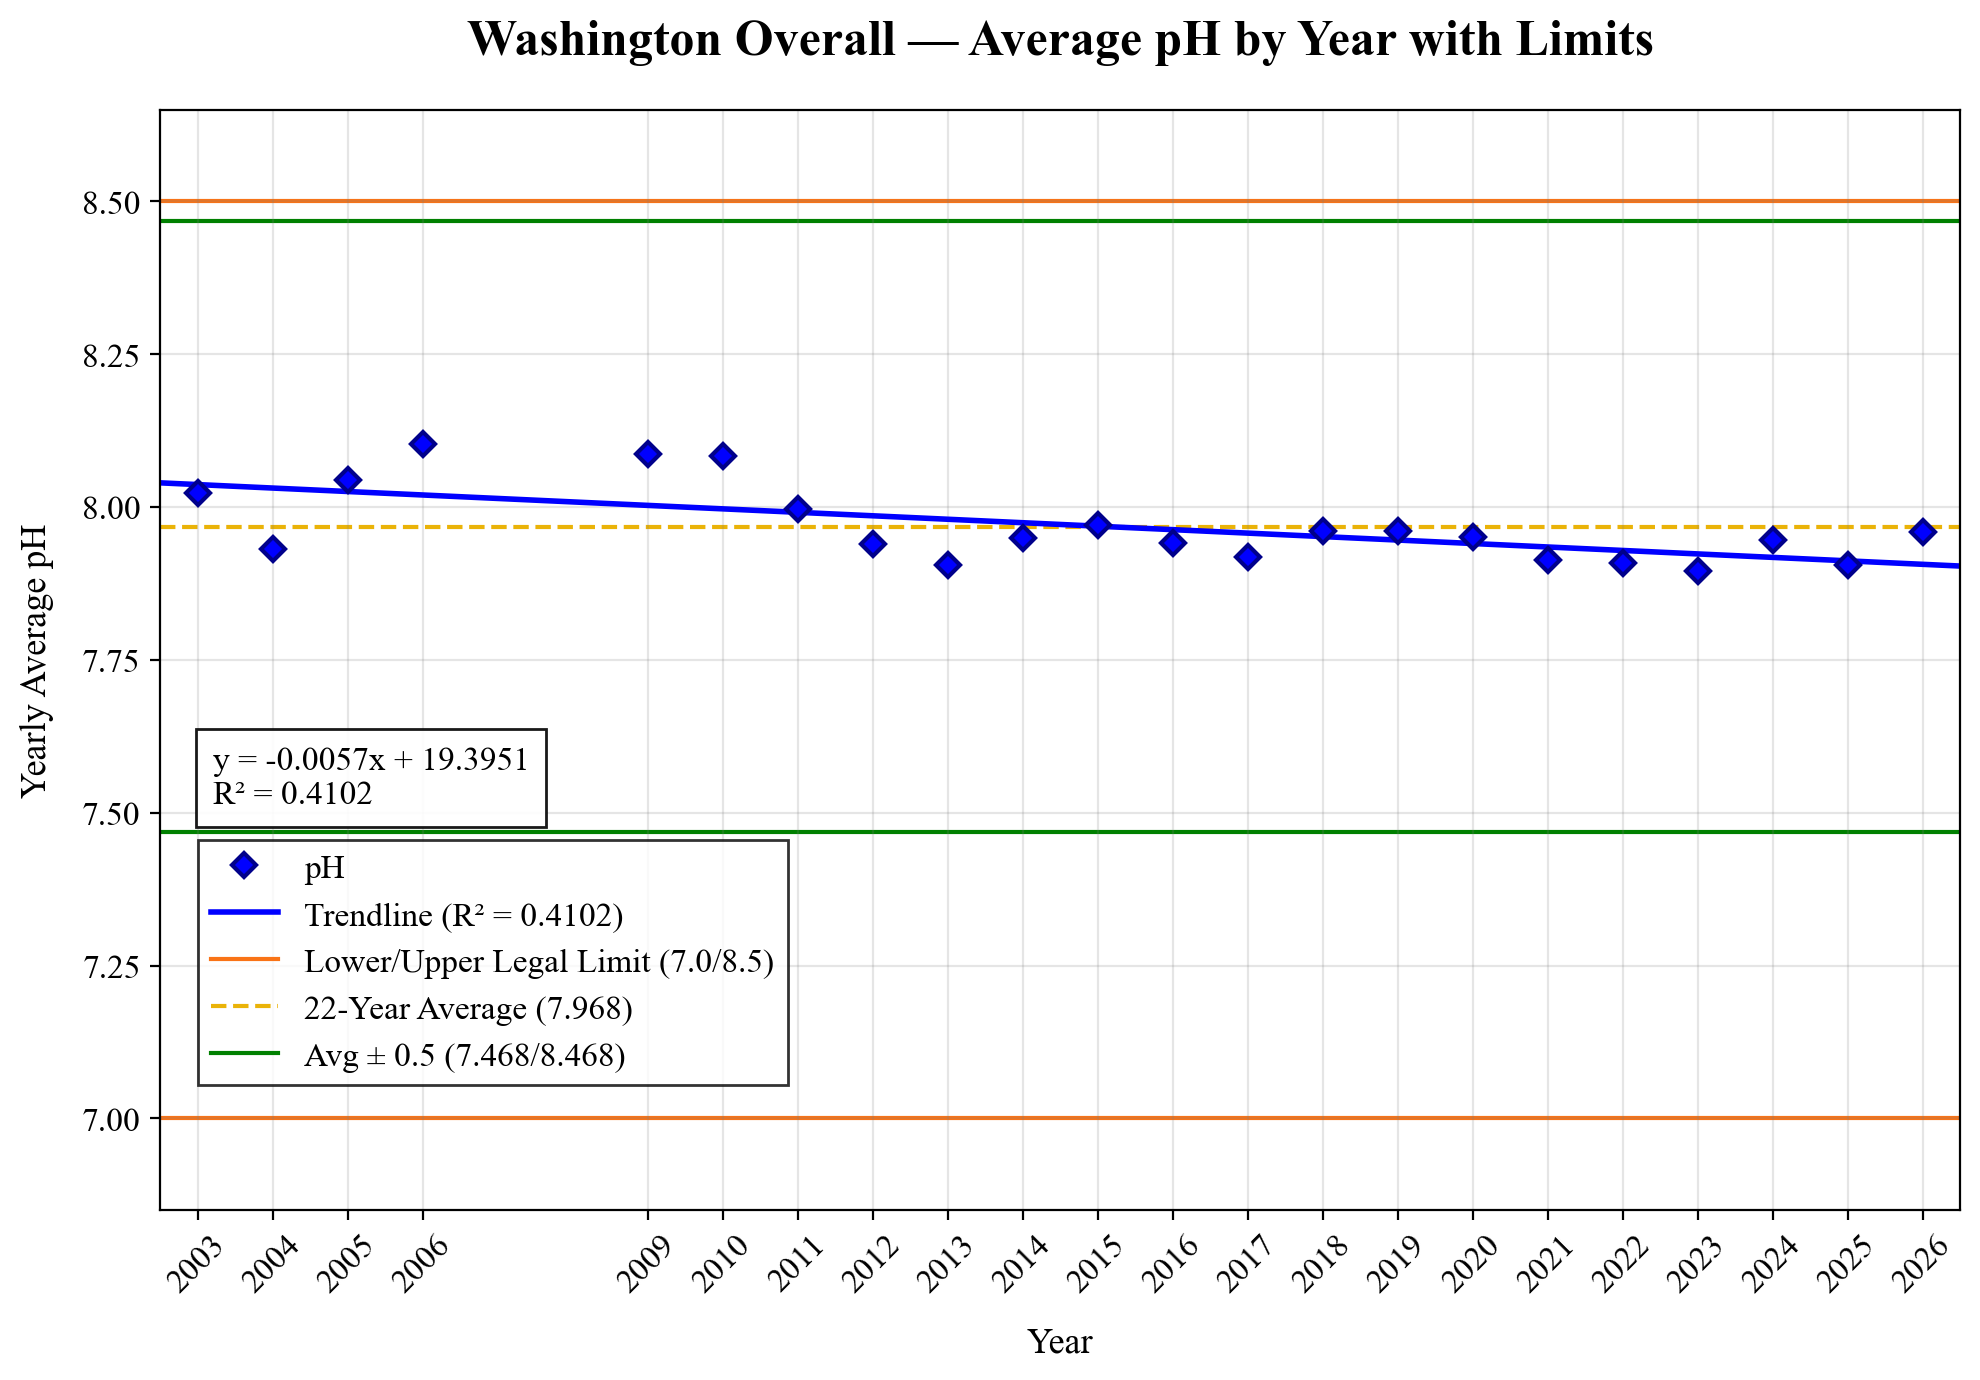
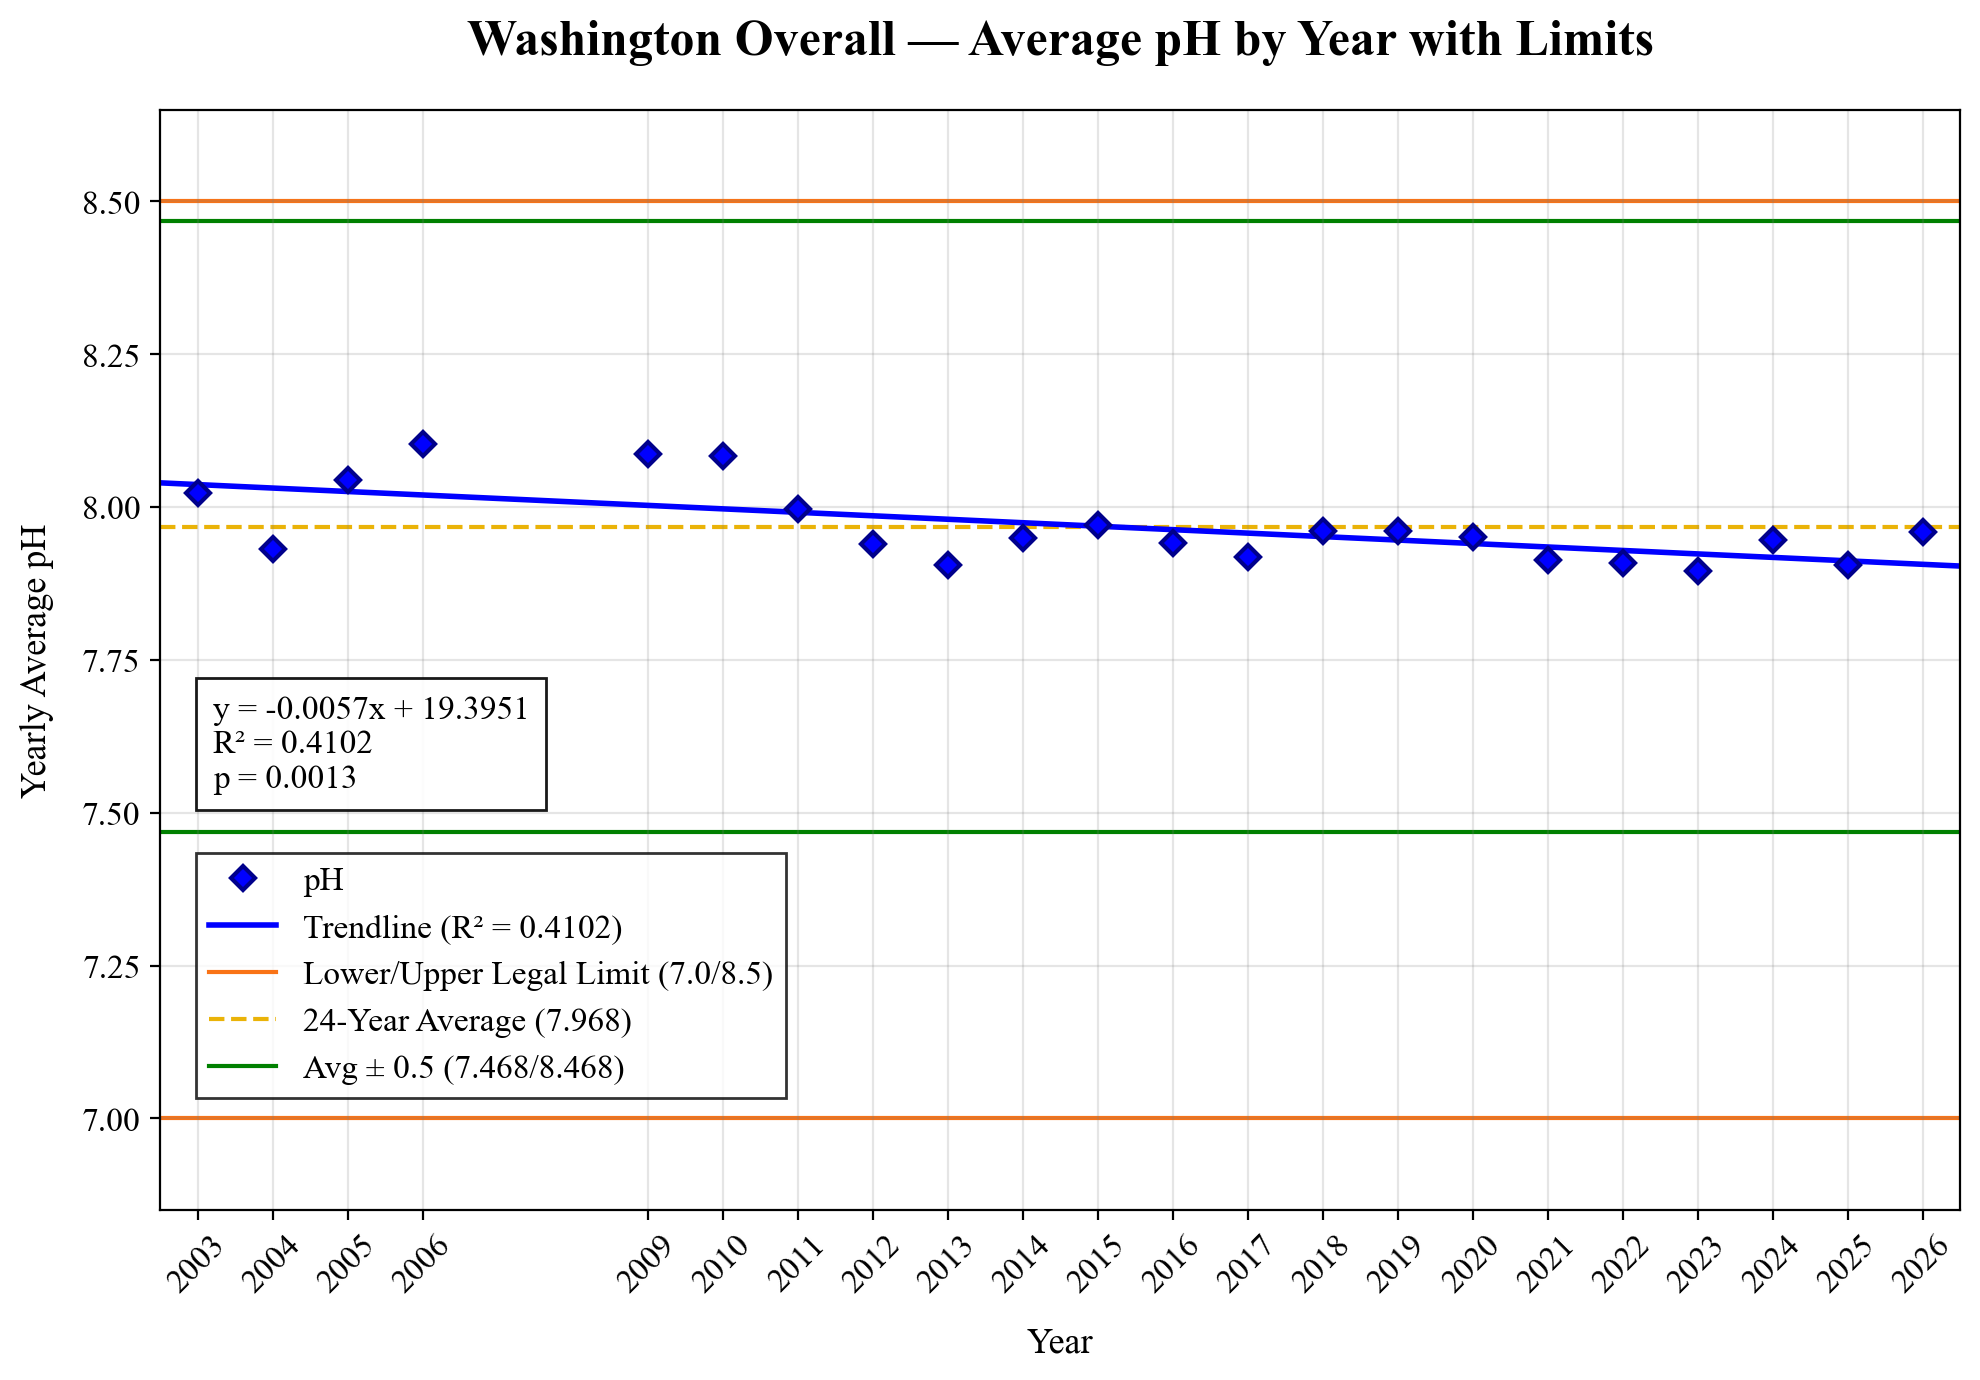
Update Washington overall trend graph with centered split layout

Changed region(s): [[0.0924, 0.4986, 0.4005, 0.8101]]

diff --git a/app.js b/app.js
@@ -313,9 +313,9 @@ function handleMarkerClick(siteName, isState, stats) {
         ? "Statewide aggregated visualization suite."
         : "Station-specific visualization suite.";
         
-    trendGraph.src = `assets/${safeName}_trend.png?v=13`;
-    boxGraph.src = `assets/${safeName}_box.png?v=13`;
-    barGraph.src = `assets/${safeName}_bar.png?v=13`;
+    trendGraph.src = `assets/${safeName}_trend.png?v=14`;
+    boxGraph.src = `assets/${safeName}_box.png?v=14`;
+    barGraph.src = `assets/${safeName}_bar.png?v=14`;
     
     if (stats.equation && stats.r2 && stats.equation !== "N/A") {
         trendStats.innerHTML = `${stats.equation} &nbsp;&nbsp;|&nbsp;&nbsp; ${stats.r2} &nbsp;&nbsp;|&nbsp;&nbsp; ${stats.p}`;

diff --git a/index.html b/index.html
@@ -67,6 +67,6 @@
     <script src="https://unpkg.com/leaflet@1.9.4/dist/leaflet.js" integrity="sha256-20nQCchB9co0qIjJZRGuk2/Z9VM+kNiyxNV1lvTlZBo=" crossorigin=""></script>
     
     <!-- App Logic -->
-    <script src="app.js?v=26"></script>
+    <script src="app.js?v=27"></script>
 </body>
 </html>
